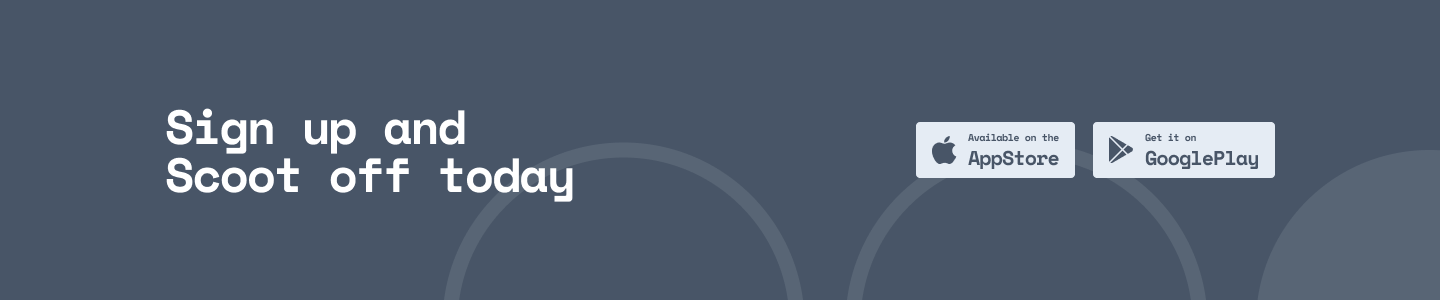
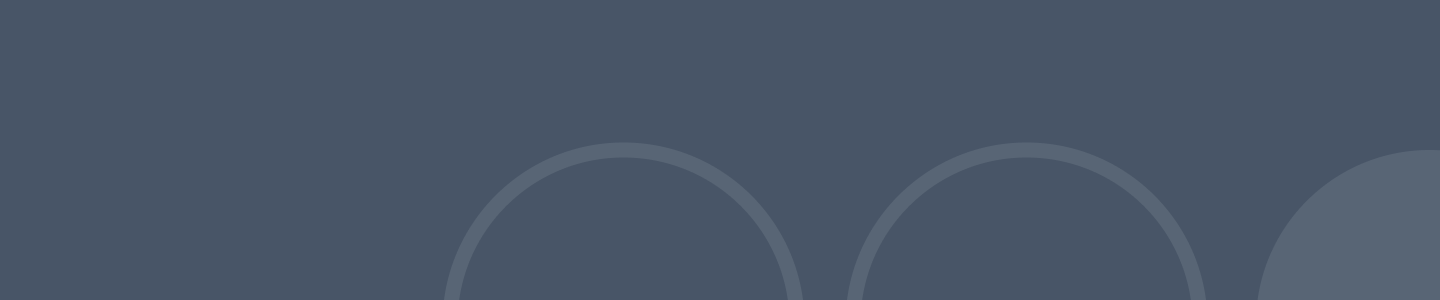
Feat: Added Footer

Changed region(s): [[0.625, 0.39, 0.9062, 0.6], [0.0938, 0.51, 0.4062, 0.69], [0.0938, 0.36, 0.3438, 0.51]]

diff --git a/src/App.css b/src/App.css
@@ -305,6 +305,32 @@ section.cards--section {
   justify-self: start;
 }
 
+.signupSection {
+  height: 300px;
+  width: 100%;
+  background: url(assets/Images/signupBg.png);
+  background-repeat: no-repeat;
+  background-size: cover;
+}
+
+.signupContent {
+  display: flex;
+  height: 100%;
+  align-items: center;
+}
+
+.signupContent > h1 {
+  color: var(--snow-white);
+}
+
+footer {
+  background-color: #333a44;
+}
+
+a.footer--logo {
+  color: var(--snow-white);
+}
+
 /* ----------------------------------------------- ----------------------------------------------- */
 /* ----------------------------------------------- ----------------------------------------------- */
 /* ----------------------------------------------- ----------------------------------------------- */

diff --git a/src/components/Footer.jsx b/src/components/Footer.jsx
@@ -1,0 +1,29 @@
+import React from "react";
+import "../index.css";
+
+const Footer = () => {
+  return (
+    <div className="nav--container">
+      <div className="nav-content">
+        <div className="logo">
+          <a className="footer--logo">Scoot</a>
+        </div>
+      </div>
+      <div className="social--buttons">
+        <ul type="none">
+          <li>
+            <a href="#"></a>
+          </li>
+          <li>
+            <a href="#"></a>
+          </li>
+          <li>
+            <a href="#"></a>
+          </li>
+        </ul>
+      </div>
+    </div>
+  );
+};
+
+export default Footer;

diff --git a/src/App.jsx b/src/App.jsx
@@ -5,6 +5,7 @@ import About from "./components/About";
 import Locations from "./components/Locations";
 import Careers from "./components/Careers";
 import Home from "./components/Home";
+import Footer from "./components/Footer";
 
 function App() {
   return (
@@ -18,6 +19,10 @@ function App() {
         <Route exact path="/Locations" element={<Locations />} />
         <Route exact path="/Careers" element={<Careers />} />
       </Routes>
+
+      <footer className="footer">
+        <Footer />
+      </footer>
     </BrowserRouter>
   );
 }

diff --git a/src/components/Home.jsx b/src/components/Home.jsx
@@ -142,6 +142,17 @@ const Home = () => {
       </section>
 
       {/* SignUp */}
+
+      <section className="signupSection">
+        <div className="container">
+          <div className="signupContent">
+            <h1>
+              Sign up and <br /> Scoot off today
+            </h1>
+          </div>
+        </div>
+      </section>
+
     </>
   );
 };
